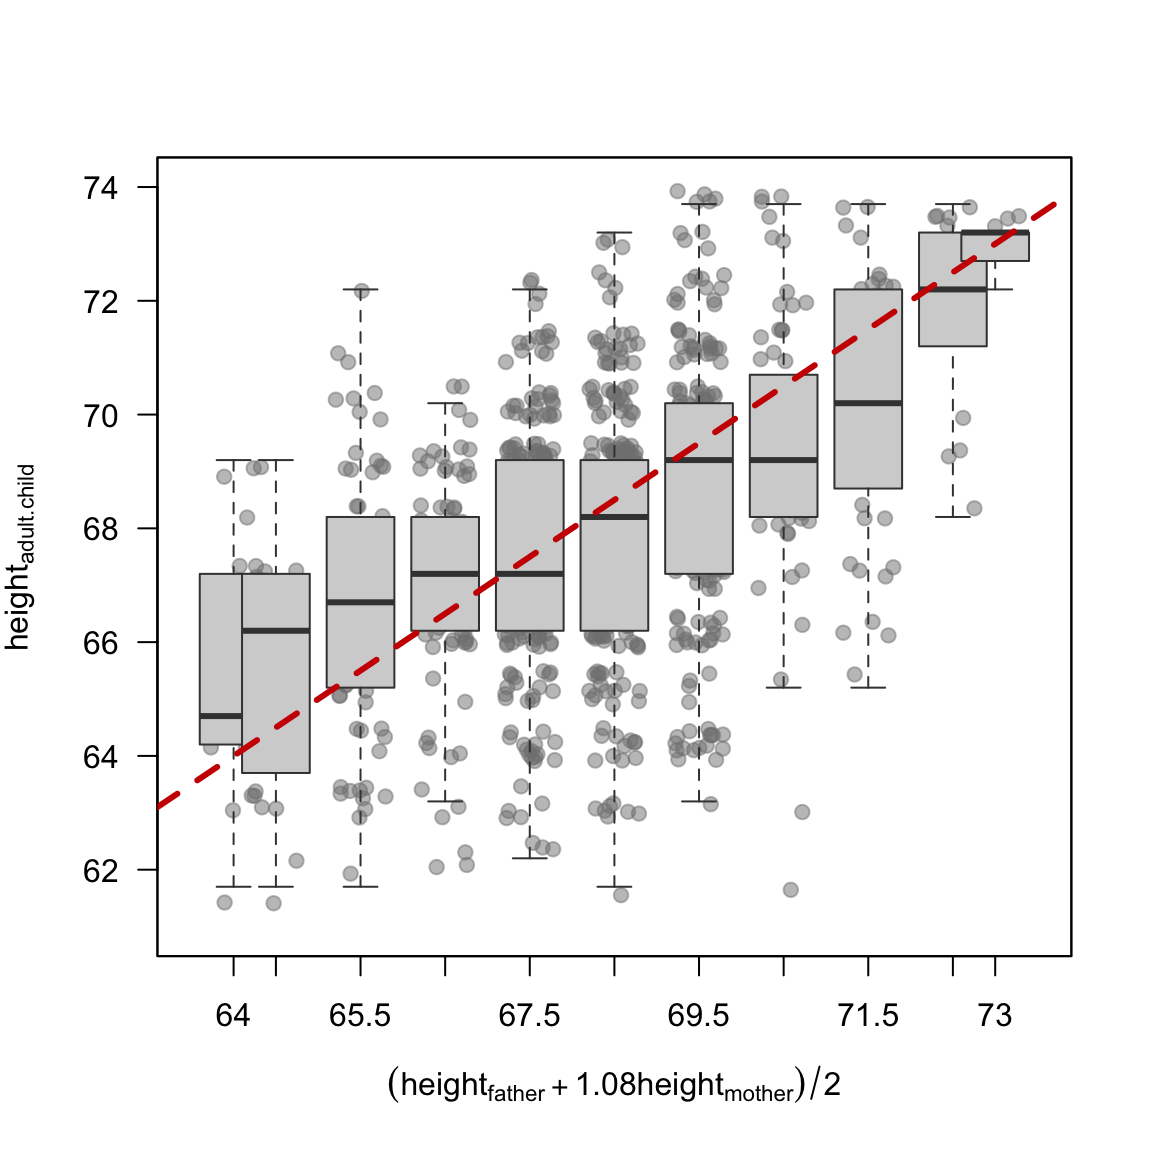
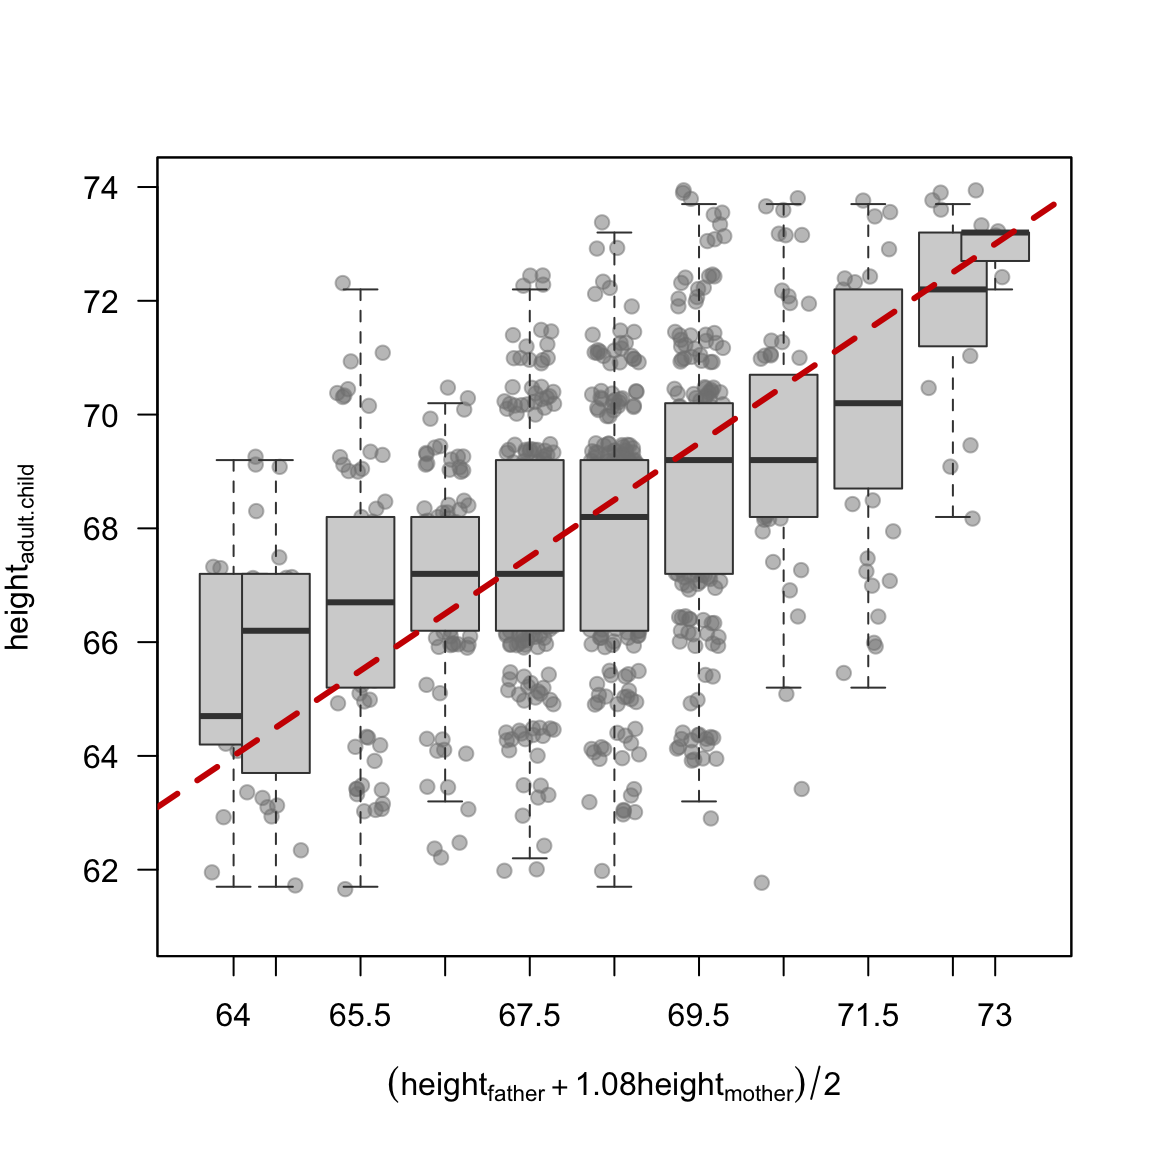
minor typos

diff --git a/docs/00-Preface.html b/docs/00-Preface.html
@@ -124,7 +124,7 @@ window.Quarto = {
 <link rel="stylesheet" href="style.css">
 </head>
 
-<body class="nav-sidebar floating quarto-light">
+<body class="nav-sidebar floating slimcontent quarto-light">
 
 <div id="quarto-search-results"></div>
   <header id="quarto-header" class="headroom fixed-top">
@@ -232,7 +232,7 @@ window.Quarto = {
 <div class="toc-actions"><ul><li><a href="https://github.com/BetaAndBit/RogueGuide2LinearModels/edit/main/00-Preface.qmd" class="toc-action"><i class="bi bi-github"></i>Edit this page</a></li><li><a href="https://github.com/BetaAndBit/RogueGuide2LinearModels/issues/new" class="toc-action"><i class="bi empty"></i>Report an issue</a></li></ul></div></nav>
     </div>
 <!-- main -->
-<main class="content" id="quarto-document-content">
+<main class="content page-columns page-full" id="quarto-document-content">
 
 <header id="title-block-header" class="quarto-title-block default">
 <div class="quarto-title">
@@ -273,14 +273,30 @@ window.Quarto = {
 </ul>
 <p>These chapters can also be read in any order, skipping the narrative or the methodological section, depending on the reader’s preference.</p>
 </section>
-<section id="why-statpunk-statistical-models-through-dystopian-narrative" class="level2" data-number="2.2">
+<section id="why-statpunk-statistical-models-through-dystopian-narrative" class="level2 page-columns page-full" data-number="2.2">
 <h2 data-number="2.2" class="anchored" data-anchor-id="why-statpunk-statistical-models-through-dystopian-narrative"><span class="header-section-number">2.2</span> Why StatPunk? Statistical Models Through Dystopian Narrative</h2>
-<p>Linear models are among the oldest and most fundamental tools in statistical analysis. Since the pioneering work of <span class="citation" data-cites="legendre1805">Legendre (<a href="#ref-legendre1805" role="doc-biblioref">1805</a>)</span> and <span class="citation" data-cites="gauss1809">Gauss (<a href="#ref-gauss1809" role="doc-biblioref">1809</a>)</span> in the early 19th century, regression <span class="citation" data-cites="galton1886">(<a href="#ref-galton1886" role="doc-biblioref">Galton, 1886</a>)</span> has evolved into one of the most widely applied methodologies across sciences, social research, and industry <span class="citation" data-cites="stigler1986">(<a href="#ref-stigler1986" role="doc-biblioref">Stigler, 1986</a>)</span>. Yet despite their ubiquity and mathematical elegance, linear models often remain abstract to students, being seen as a collection of formulas, assumptions, and diagnostic plots that exist primarily in textbooks and academic papers.</p>
+
+<div class="no-row-height column-margin column-container"><div class="">
+<div class="quarto-figure quarto-figure-center">
+<figure class="figure">
+<p><img src="figure/Intro_Beta.png" class="img-fluid figure-img"></p>
+<figcaption>Introducing Beta …</figcaption>
+</figure>
+</div>
+</div></div><p>Linear models are among the oldest and most fundamental tools in statistical analysis. Since the pioneering work of <span class="citation" data-cites="legendre1805">Legendre (<a href="#ref-legendre1805" role="doc-biblioref">1805</a>)</span> and <span class="citation" data-cites="gauss1809">Gauss (<a href="#ref-gauss1809" role="doc-biblioref">1809</a>)</span> in the early 19th century, regression <span class="citation" data-cites="galton1886">(<a href="#ref-galton1886" role="doc-biblioref">Galton, 1886</a>)</span> has evolved into one of the most widely applied methodologies across sciences, social research, and industry <span class="citation" data-cites="stigler1986">(<a href="#ref-stigler1986" role="doc-biblioref">Stigler, 1986</a>)</span>. Yet despite their ubiquity and mathematical elegance, linear models often remain abstract to students, being seen as a collection of formulas, assumptions, and diagnostic plots that exist primarily in textbooks and academic papers.</p>
 <p>This book takes a different approach. Alongside traditional examples from biomedical research, genomics, and social sciences, we introduce StatPunk, a dystopian fictional universe set in the year 2047, where algorithms control resource allocation, predictive models determine life outcomes, and statistical analysis becomes a tool of both oppression and resistance. Through the eyes of Beta and Bit, two data forensics specialists operating in the megacity of WaszKrak, we explore how linear regression, ANOVA, and related techniques can reveal hidden biases, expose systematic inequalities, and ultimately serve as instruments for questioning the structures of power embedded in data.</p>
 </section>
-<section id="the-pedagogical-power-of-narrative" class="level2" data-number="2.3">
+<section id="the-pedagogical-power-of-narrative" class="level2 page-columns page-full" data-number="2.3">
 <h2 data-number="2.3" class="anchored" data-anchor-id="the-pedagogical-power-of-narrative"><span class="header-section-number">2.3</span> The Pedagogical Power of Narrative</h2>
-<p>Why embed statistical methodology within fiction? Because context transforms comprehension. StatPunk narratives illuminate three critical aspects of statistical modeling that traditional examples sometimes obscure:</p>
+
+<div class="no-row-height column-margin column-container"><div class="">
+<div class="quarto-figure quarto-figure-center">
+<figure class="figure">
+<p><img src="figure/Intro_Bit.png" class="img-fluid figure-img"></p>
+<figcaption>… and Bit</figcaption>
+</figure>
+</div>
+</div></div><p>Why embed statistical methodology within fiction? Because context transforms comprehension. StatPunk narratives illuminate three critical aspects of statistical modeling that traditional examples sometimes obscure:</p>
 <p><strong>First, models are not neutral.</strong> Every choice, which variable serves as the predictor, how we transform the data, whether we include an intercept, carries consequences. In the MedScore case, Beta and Bit discover that healthcare spending follows an exponential relationship with MasterScore. The <span class="math inline">\(R^2 = 0.94\)</span> indicates an almost perfect fit. But perfect fit to what? The model doesn’t predict healthcare needs, it predicts algorithmic allocation. The distinction matters. Through dystopian examples, students confront the reality that statistical models can describe injustice just as precisely as they describe natural phenomena.</p>
 <p><strong>Second, model diagnostics have ethical dimensions.</strong> When we examine residual plots, test for homoscedasticity, or calculate prediction intervals, we’re not merely checking mathematical assumptions, we’re investigating whether our models treat all observations fairly. In traditional regression analysis, heteroscedasticity is a technical problem requiring correction. In StatPunk, heteroscedasticity becomes evidence: prediction intervals that widen dramatically for low MedScore citizens reveal that the algorithm has been designed to care less about their outcomes. The same diagnostic tools, applied with critical awareness, transform from purely technical procedures into instruments of accountability.</p>
 <p><strong>Third, data analysis is not a procedure, it is a story.</strong> Every dataset has a before and an after. Someone collected those numbers, someone will act on them, and somewhere between collection and conclusion, decisions are made that carry weight. Traditional textbooks present analysis as a sequence of steps: load data, fit model, check assumptions, report results. This is accurate but incomplete. It describes the mechanics without conveying what is actually at stake. Beta and Bit do not run regressions because they enjoy the syntax. They run them because the answer matters to someone who is waiting, afraid, or in danger. StatPunk narratives restore what sanitized examples remove: the tension of not yet knowing, the satisfaction of a pattern emerging from noise, the discomfort of a result that is statistically or morally troubling. When students follow Beta through a residual plot at 3am, they are not learning to check an assumption, they are learning why the assumption was worth checking in the first place. That is the difference between knowing a method and understanding it.</p>

diff --git a/docs/index.html b/docs/index.html
@@ -8,7 +8,7 @@
 
 <meta name="author" content="Przemyslaw ,,Prem’’ Biecek">
 <meta name="dcterms.date" content="2026-07-18">
-<meta name="description" content="Linear models are among the oldest and most fundamental tools in statistics, yet they are too often taught through examples of flowers and bees, genome sizes and plant heights, as if the mathematics existed in a vacuum, disconnected from consequence. This book rejects that premise. In an age where algorithms allocate healthcare, determine credit, and predict who is worth investing in, data analysis is no longer neutral, and pretending otherwise does students a disservice. Every regression line is drawn by someone, for some purpose, and increasingly those lines decide human outcomes. The Rogue’s Guide to Linear Models introduces simple regression, ANOVA, ANCOVA, and multiple regression with full mathematical rigor. Theorems are proved, assumptions stated, techniques demonstrated in reproducible R or Pythin code. But the methdology is embedded in StatPunk, a dystopian universe set in 2047 where data forensics specialists Beta and Bit use statistics to expose algorithmic injustice in the megacity of WaszKrak. Their investigations show what is truly at stake when a model treats some people with confidence and others with indifference. Because the next prediction an algorithm makes may decide whether someone receives treatment or is left behind, and that is precisely why understanding how these models work, and how they fail, has never mattered more. Without moralising, but with awareness.">
+<meta name="description" content="Linear models are among the oldest and most fundamental tools in statistics, yet they are too often taught through examples of flowers and bees, genome sizes and plant heights, as if the mathematics existed in a vacuum, disconnected from consequence. This book rejects that premise. In an age where algorithms allocate healthcare, determine credit, and predict who is worth investing in, data analysis is no longer neutral, and pretending otherwise does students a disservice. Every regression line is drawn by someone, for some purpose, and increasingly those lines decide human outcomes. The Rogue’s Guide to Linear Models introduces simple regression, ANOVA, ANCOVA, and multiple regression with full mathematical rigor. Theorems are proved, assumptions stated, techniques demonstrated in reproducible R or Python code. But the methdology is embedded in StatPunk, a dystopian universe set in 2047 where data forensics specialists Beta and Bit use statistics to expose algorithmic injustice in the megacity of WaszKrak. Their investigations show what is truly at stake when a model treats some people with confidence and others with indifference. Because the next prediction an algorithm makes may decide whether someone receives treatment or is left behind, and that is precisely why understanding how these models work, and how they fail, has never mattered more. Without moralising, but with awareness.">
 
 <title>The Rogue’s Guide to Linear Models</title>
 <style>
@@ -187,7 +187,7 @@ ul.task-list li input[type="checkbox"] {
 
 <div>
   <div class="description">
-    <p>Linear models are among the oldest and most fundamental tools in statistics, yet they are too often taught through examples of flowers and bees, genome sizes and plant heights, as if the mathematics existed in a vacuum, disconnected from consequence. This book rejects that premise. In an age where algorithms allocate healthcare, determine credit, and predict who is worth investing in, data analysis is no longer neutral, and pretending otherwise does students a disservice. Every regression line is drawn by someone, for some purpose, and increasingly those lines decide human outcomes. The Rogue’s Guide to Linear Models introduces simple regression, ANOVA, ANCOVA, and multiple regression with full mathematical rigor. Theorems are proved, assumptions stated, techniques demonstrated in reproducible R or Pythin code. But the methdology is embedded in StatPunk, a dystopian universe set in 2047 where data forensics specialists Beta and Bit use statistics to expose algorithmic injustice in the megacity of WaszKrak. Their investigations show what is truly at stake when a model treats some people with confidence and others with indifference. Because the next prediction an algorithm makes may decide whether someone receives treatment or is left behind, and that is precisely why understanding how these models work, and how they fail, has never mattered more. Without moralising, but with awareness.</p>
+    <p>Linear models are among the oldest and most fundamental tools in statistics, yet they are too often taught through examples of flowers and bees, genome sizes and plant heights, as if the mathematics existed in a vacuum, disconnected from consequence. This book rejects that premise. In an age where algorithms allocate healthcare, determine credit, and predict who is worth investing in, data analysis is no longer neutral, and pretending otherwise does students a disservice. Every regression line is drawn by someone, for some purpose, and increasingly those lines decide human outcomes. The Rogue’s Guide to Linear Models introduces simple regression, ANOVA, ANCOVA, and multiple regression with full mathematical rigor. Theorems are proved, assumptions stated, techniques demonstrated in reproducible R or Python code. But the methdology is embedded in StatPunk, a dystopian universe set in 2047 where data forensics specialists Beta and Bit use statistics to expose algorithmic injustice in the megacity of WaszKrak. Their investigations show what is truly at stake when a model treats some people with confidence and others with indifference. Because the next prediction an algorithm makes may decide whether someone receives treatment or is left behind, and that is precisely why understanding how these models work, and how they fail, has never mattered more. Without moralising, but with awareness.</p>
   </div>
 </div>
 